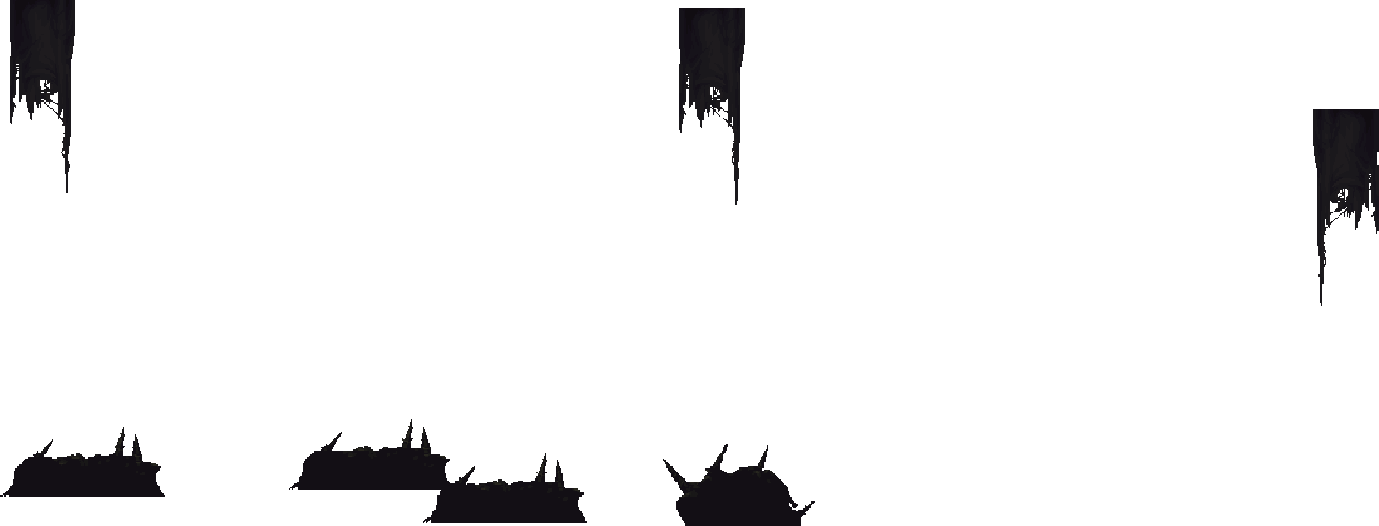
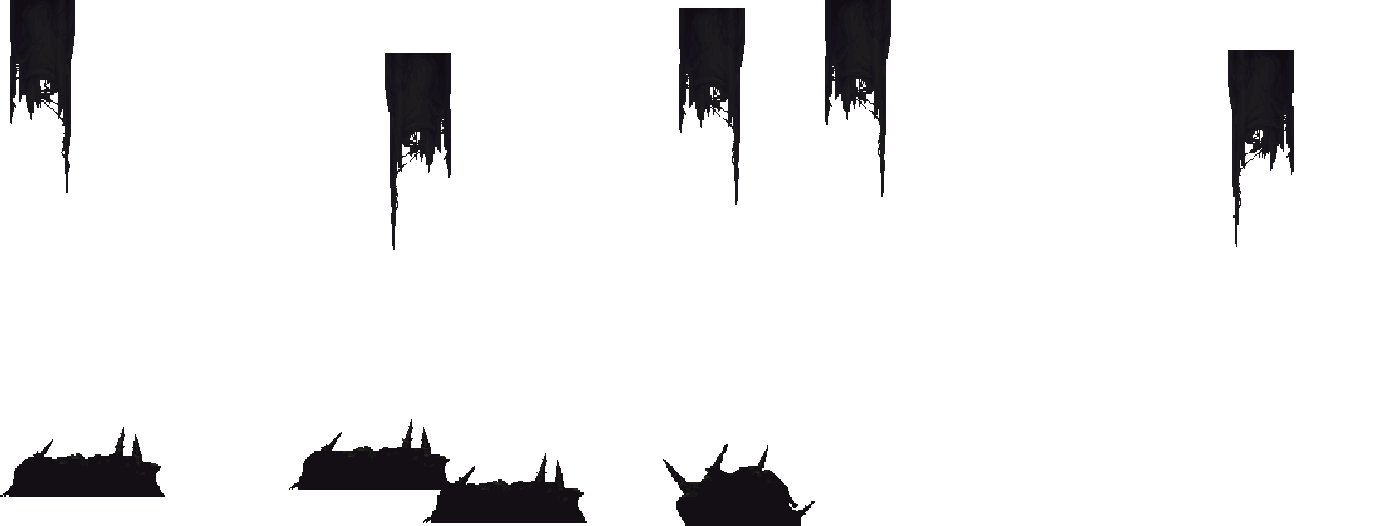
플레이어 기립 상태 추가

Changed region(s): [[0.8731, 0.0913, 1.0, 0.5171], [0.2806, 0.0913, 0.343, 0.4259], [0.5925, 0.0, 0.6548, 0.3346]]

diff --git a/Portfolio/GameEngineContents/Penitent.cpp b/Portfolio/GameEngineContents/Penitent.cpp
@@ -9,6 +9,7 @@
 #include "AttackEffect.h"
 #include "StageBase.h"
 #include "BloodProjectile.h"
+#include "Stage01.h"
 
 Penitent* Penitent::MainPlayer_ = nullptr;
 
@@ -296,7 +297,7 @@ void Penitent::SetAnimation()
                                         [&](const FrameAnimation_DESC& _Info) { ChangeState("Fall"); });
     }
 
-{
+    {
         std::vector<MetaData> Data = MetaSpriteManager::Inst_->Find("penitent_jum_forward_anim");
 
         MetaRenderer_->CreateMetaAnimation(
@@ -544,6 +545,19 @@ void Penitent::SetAnimation()
         MetaRenderer_->AnimationBindEnd("penitent_sheathedIdle_Start",
                                         [&](const FrameAnimation_DESC& _Info)
                                         { MetaRenderer_->ChangeMetaAnimation("penitent_sheathedIdle_Loop"); });
+    }
+
+
+    {
+        std::vector<MetaData> Data = MetaSpriteManager::Inst_->Find("penitent_risingFromFallen_anim");
+
+        MetaRenderer_->CreateMetaAnimation(
+            "penitent_risingFromFallen_anim",
+            {"penitent_risingFromFallen_anim.png", 0, static_cast<unsigned int>(Data.size() - 1), 0.08f, false},
+            Data);
+
+        MetaRenderer_->AnimationBindEnd("penitent_risingFromFallen_anim",
+                                        [&](const FrameAnimation_DESC& _Info) { ChangeState("Idle"); });
     }
 
     {
@@ -1527,12 +1541,16 @@ void Penitent::SetPlayerState()
                              std::bind(&Penitent::RespawnStart, this, std::placeholders::_1),
                              std::bind(&Penitent::RespawnEnd, this, std::placeholders::_1));
 
+    State_.CreateStateMember("Rising",
+                             std::bind(&Penitent::RisingUpdate, this, std::placeholders::_1, std::placeholders::_2),
+                             std::bind(&Penitent::RisingStart, this, std::placeholders::_1),
+                             std::bind(&Penitent::RisingEnd, this, std::placeholders::_1));
+
     State_.ChangeState("Idle");
 }
 
-
 void Penitent::LevelStartEvent()
-{   
+{
     if (false == IsPlayerDeath_)
     {
         if (true == IsOutDoor_)
@@ -1547,6 +1565,17 @@ void Penitent::LevelStartEvent()
     }
 
     CurStage_ = dynamic_cast<StageBase*>(GetLevel());
+
+    if (nullptr != CurStage_
+        && "STAGE01" == CurStage_->GetNameConstRef())
+    {
+        Stage01* Stage = dynamic_cast<Stage01*>(CurStage_);
+
+        if (true == Stage->GetIsPlayerCreate())
+        {
+            ChangeState("Rising");
+        }
+    }
 
     PlayerUI_->Inventory_->Off();
 }

diff --git a/Portfolio/GameEngineContents/Pope.cpp b/Portfolio/GameEngineContents/Pope.cpp
@@ -130,6 +130,29 @@ void Pope::Start()
     MetaFXSRenderer_->SetPivot(PIVOTMODE::METABOT);
     MetaFXSRenderer_->Off();
 
+
+    DustEffectRenderer_ = CreateComponent<MetaTextureRenderer>();
+
+    {
+        std::vector<MetaData> Data = MetaSpriteManager::Inst_->Find("penitent_parrysuccess_dust_effect_anim");
+
+        DustEffectRenderer_->CreateMetaAnimation(
+            "penitent_parrysuccess_dust_effect_anim",
+            {"penitent_parrysuccess_dust_effect_anim.png", 0, static_cast<unsigned int>(Data.size() - 1), 0.1f, false},
+            Data);
+
+        DustEffectRenderer_->AnimationBindEnd("penitent_parrysuccess_dust_effect_anim",
+                                              [&](const FrameAnimation_DESC& _Info)
+                                              {
+                                                  DustEffectRenderer_->CurAnimationReset();
+                                                  DustEffectRenderer_->Off();
+                                              });
+    }
+
+    DustEffectRenderer_->ChangeMetaAnimation("penitent_parrysuccess_dust_effect_anim");
+    DustEffectRenderer_->SetPivot(PIVOTMODE::METABOT);
+    DustEffectRenderer_->Off();
+
     // MetaRenderer_->GetColorData().PlusColor = float4{1.0f, 1.0f, 1.0f, 1.0f};
 
     Symbol_ = GetLevel()->CreateActor<SymbolEffect>();
@@ -379,6 +402,9 @@ void Pope::SpellCastStart(const StateInfo& _Info)
 
     MetaFXSRenderer_->On();
     MetaRenderer_->ChangeMetaAnimation("pope_spellCast");
+
+    DustEffectRenderer_->On();
+    DustEffectRenderer_->ChangeMetaAnimation("penitent_parrysuccess_dust_effect_anim");
 
     MetaRenderer_->GetTransform().SetWorldPosition(GetTransform().GetWorldPosition());
 

diff --git a/Portfolio/GameEngineContents/Penitent_State.cpp b/Portfolio/GameEngineContents/Penitent_State.cpp
@@ -327,7 +327,7 @@ void Penitent::FallUpdate(float _DeltaTime, const StateInfo& _Info)
         GetTransform().PixLocalNegativeX();
         RealXDir_ = -1;
 
-        if (false == LeftObstacleCheck())   
+        if (false == LeftObstacleCheck())
         {
             Dir_ += -(GetTransform().GetLeftVector() * 3.f);
         }
@@ -1194,8 +1194,7 @@ void Penitent::DoorExitStart(const StateInfo& _Info)
 
 void Penitent::DoorExitUpdate(float _DeltaTime, const StateInfo& _Info) {}
 
-void Penitent::DoorExitEnd(const StateInfo& _Info) 
-{ BodyCollider_->On(); }
+void Penitent::DoorExitEnd(const StateInfo& _Info) { BodyCollider_->On(); }
 
 
 void Penitent::DeathStart(const StateInfo& _Info)
@@ -1217,8 +1216,26 @@ void Penitent::DeathStart(const StateInfo& _Info)
     MetaRenderer_->GetColorData().PlusColor = float4{0.0f, 0.0f, 0.0f, 0.0f};
 }
 
-void Penitent::DeathUpdate(float _DeltaTime, const StateInfo& _Info) 
-{ 
-}
+void Penitent::DeathUpdate(float _DeltaTime, const StateInfo& _Info) {}
 
 void Penitent::DeathEnd(const StateInfo& _Info) { SetHP(100.f); }
+
+
+void Penitent::RisingStart(const StateInfo& _Info)
+{
+    MetaRenderer_->ChangeMetaAnimation("penitent_risingFromFallen_anim");
+    MetaRenderer_->SetCurAnimationPause(true);
+}
+
+void Penitent::RisingUpdate(float _DeltaTime, const StateInfo& _Info) 
+{
+    if (true == IsRising_)
+    {
+        IsRising_ = false;
+        MetaRenderer_->SetCurAnimationPause(false);
+    }
+
+    Gravity_->SetActive(!IsGround_); 
+}
+
+void Penitent::RisingEnd(const StateInfo& _Info) {}

diff --git a/Portfolio/GameEngineContents/Penitent.h b/Portfolio/GameEngineContents/Penitent.h
@@ -74,20 +74,17 @@ public:
         PlayerUI_->SetTear(Tear_);
     }
 
-    inline int GetTear()
-    {
-        return Tear_;
-    }
+    inline int GetTear() { return Tear_; }
 
-    inline void PlusTear(int _Value) 
+    inline void PlusTear(int _Value)
     {
-        Tear_ += _Value; 
+        Tear_ += _Value;
         PlayerUI_->SetTear(Tear_);
     }
 
-    inline void MinusTear(int _Value) 
-    { 
-        Tear_ -= _Value; 
+    inline void MinusTear(int _Value)
+    {
+        Tear_ -= _Value;
         PlayerUI_->SetTear(Tear_);
     }
 
@@ -129,6 +126,8 @@ public:
 
     inline PlayerUI* GetPlayerUI() { return PlayerUI_; }
 
+    void SetIsRising(bool _Value) { IsRising_ = _Value; }
+
 protected:
     void Start() override;
     void Update(float _DeltaTime) override;
@@ -136,6 +135,10 @@ protected:
 
     void SetAnimation();
     void SetPlayerState();
+
+    void RisingStart(const StateInfo& _Info);
+    void RisingUpdate(float _DeltaTime, const StateInfo& _Info);
+    void RisingEnd(const StateInfo& _Info);
 
     void GroundCheck();
     void LadderCheck();
@@ -367,4 +370,6 @@ private:
     bool IsFreezeEnd_;
 
     bool IsOutDoor_;
+
+    bool IsRising_;
 };

diff --git a/Portfolio/GameEngineContents/Stage01.h b/Portfolio/GameEngineContents/Stage01.h
@@ -5,24 +5,26 @@
 class Stage01 : public StageBase
 {
 public:
-	Stage01();
-	~Stage01();
+    Stage01();
+    ~Stage01();
 
-	Stage01(const Stage01& _Other) = delete;
-	Stage01(Stage01&& _Other) noexcept = delete;
-	Stage01& operator=(const Stage01& _Other) = delete;
-	Stage01& operator=(Stage01&& _Other) noexcept = delete;
+    Stage01(const Stage01& _Other)                = delete;
+    Stage01(Stage01&& _Other) noexcept            = delete;
+    Stage01& operator=(const Stage01& _Other)     = delete;
+    Stage01& operator=(Stage01&& _Other) noexcept = delete;
+
+    bool GetIsPlayerCreate() { return IsPlayerCreate_; }
 
 protected:
-	void SettingStage() override;
+    void SettingStage() override;
 
-	void Start() override;
-	void Update(float _DeltaTime) override;
-	void End() override;
+    void Start() override;
+    void Update(float _DeltaTime) override;
+    void End() override;
 
     void LevelStartEvent() override;
     void LevelEndEvent() override;
 
 private:
+    bool IsPlayerCreate_;
 };
-

diff --git a/Portfolio/GameEngineContents/Stage01.cpp b/Portfolio/GameEngineContents/Stage01.cpp
@@ -65,6 +65,8 @@ void Stage01::SettingStage()
 
     PlayerRightPos_ = float4{3600, -1730, PlayerZ};
     PlayerLeftPos_  = float4{1230, -940, PlayerZ};
+
+    IsLeftExit_ = true;
 }
 
 void Stage01::Start()
@@ -114,6 +116,13 @@ void Stage01::Update(float _DeltaTime)
         LoadingActor_->IsEntrance(false);
         LoadingActor_->Exit("Stage02");
     }
+
+    if (true == GetLoadingEnd() && true == IsPlayerCreate_)
+    {
+        IsPlayerCreate_ = false;
+        Penitent_->SetIsRising(true);
+        SetLoadingEnd(false);
+    }
 }
 
 void Stage01::End() {}
@@ -130,6 +139,7 @@ void Stage01::LevelStartEvent()
         Penitent_->SetGround(ColMap_);
 
         Penitent_->SetLevelOverOn();
+        IsPlayerCreate_ = true;
     }
 
     else if (nullptr != Penitent::GetMainPlayer())

diff --git a/Portfolio/GameEngineContents/Stage20.cpp b/Portfolio/GameEngineContents/Stage20.cpp
@@ -124,6 +124,13 @@ void Stage20::Update(float _DeltaTime)
 
             else
             {
+                MassageTime_ += _DeltaTime;
+
+                if (1.5f > MassageTime_)
+                {
+                    return;
+                }
+
                 if (false == MessageUI_->IsUpdate())
                 {
                     MessageUI_->On();

diff --git a/Portfolio/GameEngineContents/Pope.h b/Portfolio/GameEngineContents/Pope.h
@@ -65,6 +65,7 @@ private:
 
     SPELLTYPE SpellType_;
 
+    class MetaTextureRenderer* DustEffectRenderer_;
     class MetaTextureRenderer* MetaFXSRenderer_;
     class SymbolEffect*        Symbol_;
 

diff --git a/Portfolio/GameEngineContents/Pontiff.cpp b/Portfolio/GameEngineContents/Pontiff.cpp
@@ -466,9 +466,7 @@ SPELLTYPE Pontiff::RandomSpell()
             break;
     }
 
-    //return Spell;
-
-    return SPELLTYPE::LIGHTININGBOLT;
+    return Spell;
 }
 
 void Pontiff::CreateSpawner()

diff --git a/Portfolio/GameEngineContents/Stage20.h b/Portfolio/GameEngineContents/Stage20.h
@@ -37,4 +37,6 @@ private:
 
     void PlayerCameraMove(float _DeltaTime);
 
+    float MassageTime_;
+
 };
